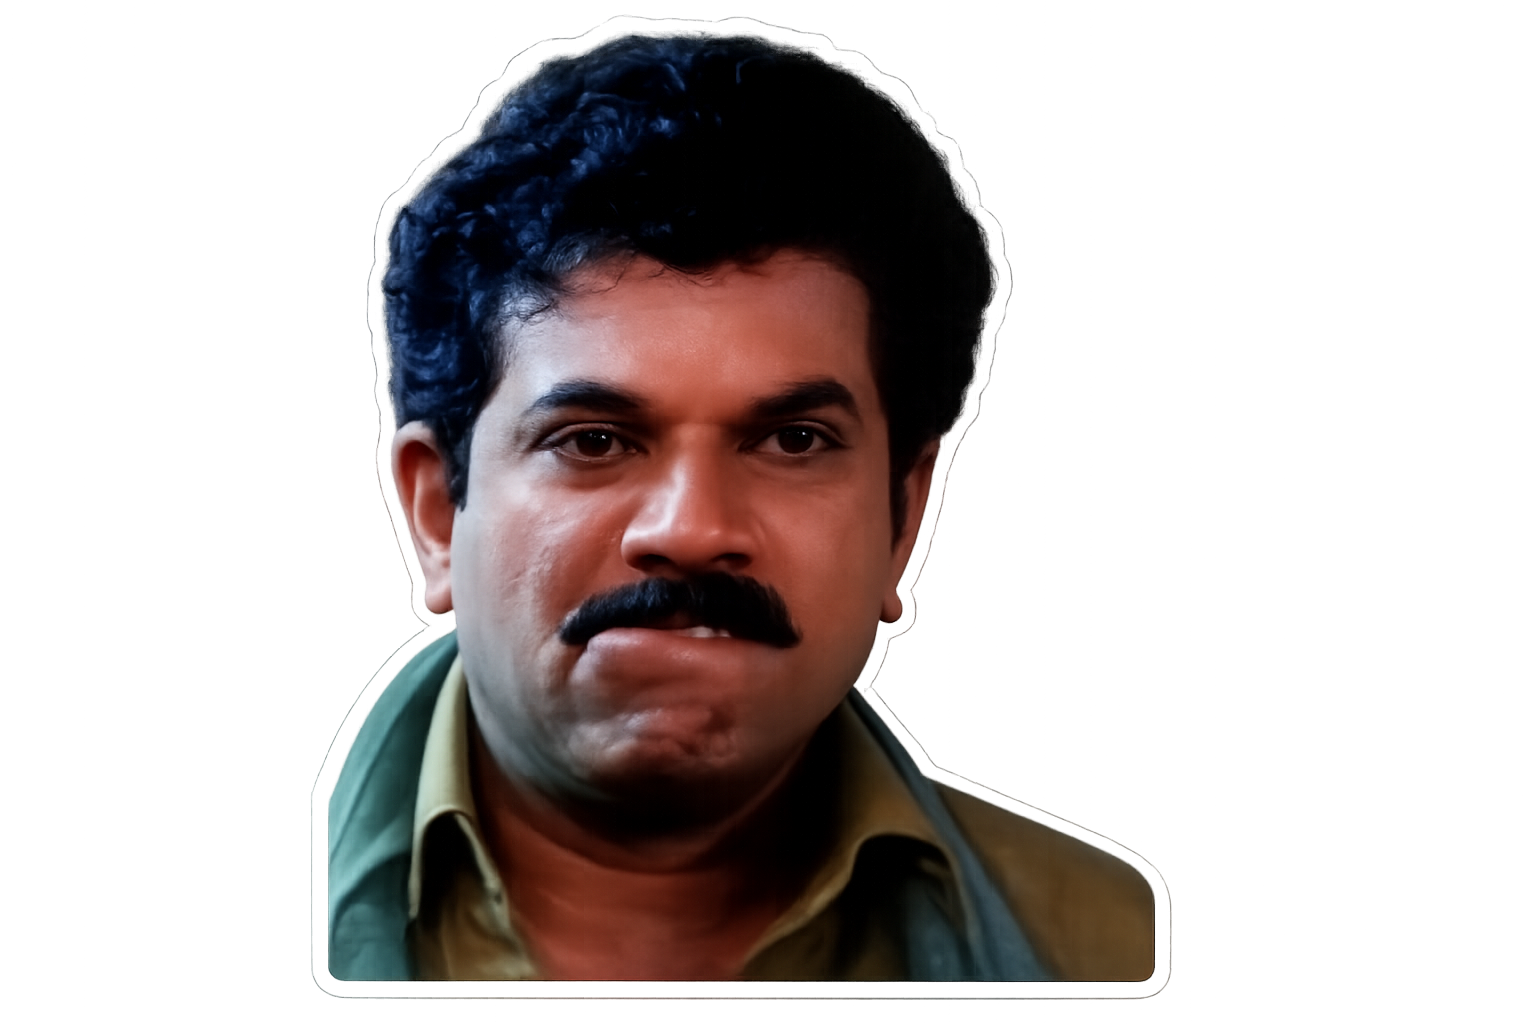
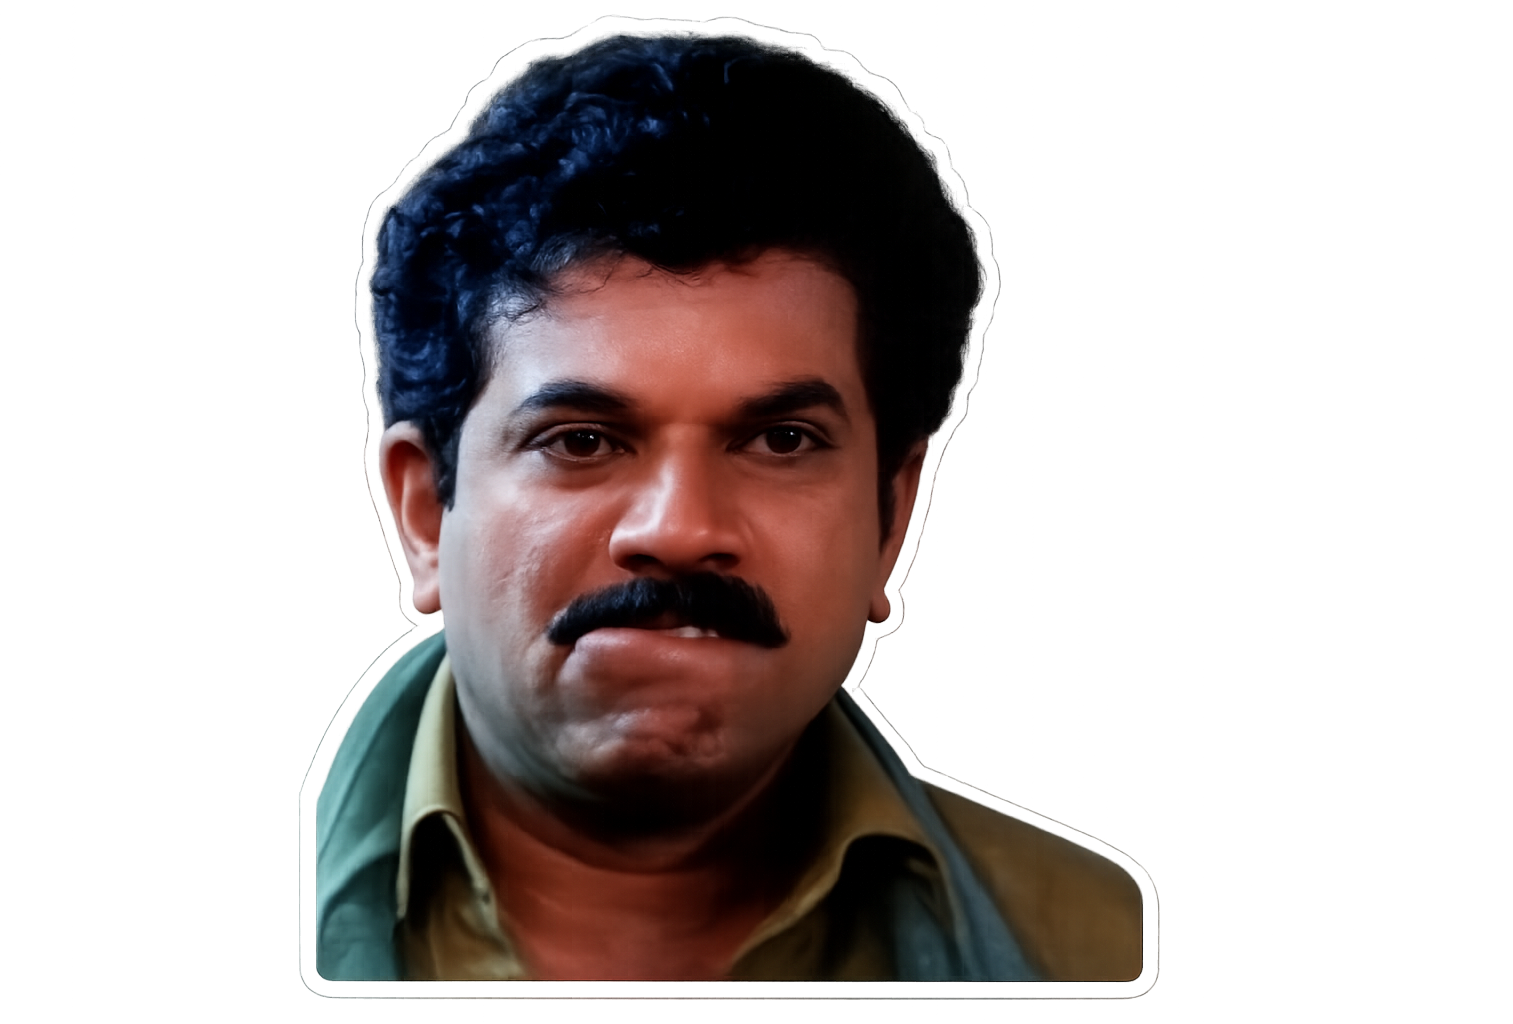
Fix: Perfectly isolate Mr Bean from original image, enlarge Malayalam image via scale

diff --git a/styles.css b/styles.css
@@ -265,7 +265,11 @@
 .edition-pill-btn.intl-edition b{color:#d3b3ff!important}
 .edition-pill-btn.intl-edition small{color:#9b7fd4!important}
 .edition-pill-btn.intl-edition:hover{box-shadow:0 4px 18px rgba(140,100,255,0.45)!important}
-/* Intl mode accent colour overrides on home copy */
+#home:not(.intl-mode) #homeCharacterImg{
+  mix-blend-mode:normal!important;
+  transform:scale(1.2);
+  transform-origin:bottom;
+}
 #home.intl-mode .home-copy h1{color:#c89fff!important}
 #home.intl-mode .home-copy strong{color:#a78bfa!important}
 #home.intl-mode .home-copy p{color:#bbaee0!important}